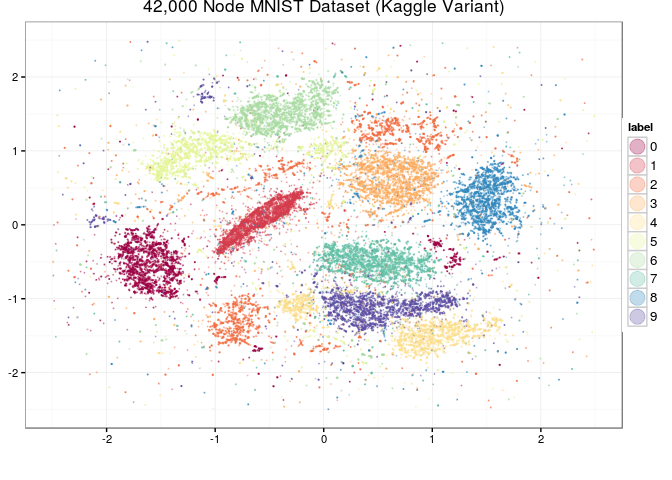
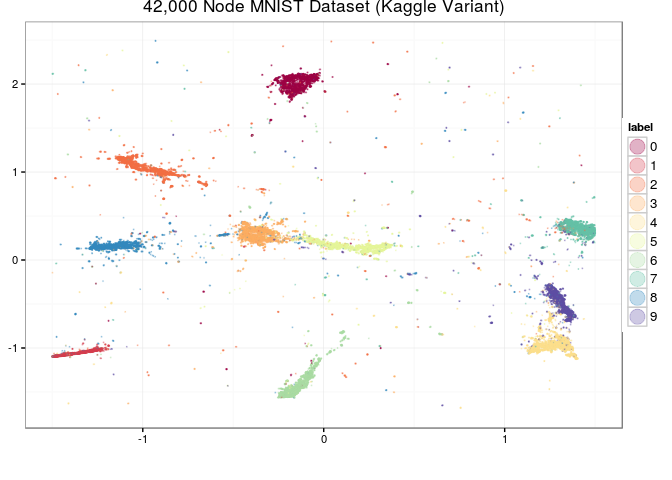
Failing.

Changed region(s): [[0.125, 0.125, 0.9062, 0.8438], [0.0625, 0.7188, 0.1875, 0.75], [0.0, 0.1562, 0.0312, 0.1875]]

diff --git a/src/largeVis.cpp b/src/largeVis.cpp
@@ -8,7 +8,6 @@
 #include <queue>
 #include <vector>
 #include <set>
-#include "helpers.hpp"
 using namespace Rcpp;
 using namespace std;
 
@@ -20,6 +19,10 @@ void checkVector(const arma::vec& x,
   if (x.has_nan() || x.has_inf())
     Rcout << "\n Failure at " << label;
 };
+
+inline double dist(arma::vec i, arma::vec j) {
+  return sum(square(i - j));
+}
 
 double objective(const arma::mat& inputs, double gamma, double alpha) {
   double objective = log(1 / (1 + (alpha * dist(inputs.col(0), inputs.col(1)))));
@@ -83,14 +86,11 @@ arma::mat sgd(arma::mat coords,
       positiveEdgeWeights[idx] = positiveEdgeWeights[idx - 1] + (ws[idx] / posScale);
   }
 
-  Rcpp::List progressParams = Rcpp::List::create();
-  double trailingLoss = 0;
-
   const int posSampleLength = min(1000000, nBatches);
   arma::vec positiveSamples = arma::randu<arma::vec>(posSampleLength);
 
   // Iterate through the edges in the positiveEdges vector
-#pragma omp parallel for shared(coords, positiveSamples, trailingLoss) schedule(static)
+  #pragma omp parallel for shared(coords, positiveSamples) schedule(static)
   for (int eIdx=0; eIdx < nBatches; eIdx++) {
     if (progress.increment()) {
       const double posTarget = *(positiveSamples.begin() + (eIdx % posSampleLength));
@@ -104,15 +104,10 @@ arma::mat sgd(arma::mat coords,
                                               positiveEdgeWeights.end(),
                                               posTarget));
       }
+
       const int i = is[e_ij];
       const int j = js[e_ij];
 
-      const double localRho = rho - ((rho - minRho) * eIdx / nBatches);
-
-      //if ((arma::randn<arma::vec>(1))[0] < 0) swap(i, j);
-
-      // const arma::vec y_i = coords.row(i);
-      // const arma::vec y_j = coords.row(j);
       arma::vec y_i = arma::vec(D);
       arma::vec y_j = arma::vec(D);
       for (int idx = 0; idx < D; idx++) {
@@ -120,29 +115,30 @@ arma::mat sgd(arma::mat coords,
         y_j[idx] = coords(idx,j);
       }
 
+      const double localRho = rho - ((rho - minRho) * eIdx / nBatches);
+
       // wij
       const double w = (useWeights) ? ws[e_ij] : 1;
 
-      const double dist_ij = sqrt(dist(y_i, y_j));
-      const arma::vec d_dist_ij = (y_i - y_j) / dist_ij;
+      const double      dist_ij   =   sqrt(dist(y_i, y_j));
+      const arma::vec   d_dist_ij =   (y_i - y_j) / dist_ij;
 
-      const double p_ij = (alpha == 0) ?
-                                        1 / (1 +     exp( pow(dist_ij,2))) :
+      const double      p_ij      =   (alpha == 0) ?
+                                        1 / (1 +     exp( pow(dist_ij,2))):
                                         1 / (1 + (alpha * pow(dist_ij,2)));
-
-      const arma::vec d_p_ij = (alpha == 0) ?
-                                d_dist_ij * -2 * dist_ij * exp(pow(dist_ij,2)) / pow(1 + exp(pow(dist_ij,2)), 2) :
-                                d_dist_ij * -2 * dist_ij * alpha               / pow(1 +    (pow(dist_ij,2) * alpha),2);
+      const arma::vec   d_p_ij    =   (alpha == 0) ?
+                                d_dist_ij * -2 * dist_ij * exp(pow(dist_ij,2)) / pow(1 +      exp(pow(dist_ij,2)), 2):
+                                d_dist_ij * -2 * dist_ij * alpha               / pow(1 + (alpha * pow(dist_ij,2)), 2);
 
       //double o = log(p_ij);
-      const arma::vec d_j = (1 / p_ij) * d_p_ij;
+      const arma::vec   d_j       =   (1 / p_ij) * d_p_ij;
+      arma::vec         d_i       =   d_j;
 
       arma::vec samples = arma::randu<arma::vec>(M * 2);
       arma::vec::iterator targetIt = samples.begin();
       int sampleIdx = 1;
       // The indices of the nodes with edges to i
       arma::vec searchVector = i_idx.subvec(ps[i], ps[i + 1] - 1);
-      arma::vec d_i = d_j;
       int m = 0;
       while (m < M) {
         if (sampleIdx % (M * 2) == 0) samples.randu();
@@ -150,35 +146,35 @@ arma::mat sgd(arma::mat coords,
         const double target = targetIt[sampleIdx++ % (M * 2)];
         int k;
         if (useWeights) k = target * (N - 1);
-        else k = std::distance(negativeSampleWeights.begin(),
-                               std::upper_bound(negativeSampleWeights.begin(),
-                                                negativeSampleWeights.end(),
-                                                target)
-                                 );
-
+        else            k = std::distance(
+                                          negativeSampleWeights.begin(),
+                                          std::upper_bound( negativeSampleWeights.begin(),
+                                                            negativeSampleWeights.end(),
+                                                            target
+                                                          )
+                                        );
         if (k == i ||
             k == j ||
             sum(searchVector == k) > 0) continue;
+
         arma::vec y_k = arma::vec(D);
         for (int idx = 0; idx < D; idx++) y_k[idx] = coords(idx,k);
 
         const double dist_ik =  sqrt(dist(y_i, y_k));
-        if (dist_ik == 0) continue; // Duplicates
-
+        if (dist_ik == 0) continue; // check for duplicates
         const arma::vec d_dist_ik = (y_i - y_k) / dist_ik;
 
         const double p_ik = (alpha == 0) ?
-                                1 - (1 / (1 +     exp( pow(dist_ik,2)))) :
+                                1 - (1 / (1 +     exp( pow(dist_ik,2)))):
                                 1 - (1 / (1 + (alpha * pow(dist_ik,2))));
-
         const arma::vec d_p_ik = (alpha == 0) ?
-                                  d_dist_ik * 2 * dist_ik * exp(pow(dist_ik,2)) / pow(1 +      exp(pow(dist_ik,2)),2) :
+                                  d_dist_ik * 2 * dist_ik * exp(pow(dist_ik,2)) / pow(1 +      exp(pow(dist_ik,2)),2):
                                   d_dist_ik * 2 * dist_ik * alpha               / pow(1 + (alpha * pow(dist_ik,2)),2);
+
         //o += (gamma * log(p_ik));
-
         const arma::vec d_k = (gamma / p_ik) * d_p_ik;
-
         d_i += d_k;
+
         for (int idx = 0; idx < D; idx++) coords(idx,k) -= d_k[idx] * localRho * w;
 
         m++;
@@ -189,7 +185,7 @@ arma::mat sgd(arma::mat coords,
         coords(idx,i) +=  d_i[idx] * w * localRho;
       }
 
-      if (eIdx >0 && eIdx % posSampleLength == 0) positiveSamples.randu();
+      if (eIdx > 0 && eIdx % posSampleLength == 0) positiveSamples.randu();
     }
   }
   return coords;

diff --git a/src/helpers.hpp b/src/helpers.hpp
@@ -1,5 +1,5 @@
-#ifndef ADD_H
-#define ADD_H
+#ifndef LARGEVISHELPERS
+#define LARGEVISHELPERS
 using namespace Rcpp;
 
 double dist(const arma::vec& i, const arma::vec& j);

diff --git a/README.md b/README.md
@@ -9,7 +9,7 @@ The inner loops for nearest-neighbor search and gradient descent are implemented
 
 #### Project Status & Caveats
 
--   It works!
+-   It works! I have now tested with datasets of up to 1 Million rows.
 -   The OpenMP issues in the original upload have been resolved, and OpenMP re-enabled.
 -   Memory efficiency has been *vastly* improved in 0.1.3. Peak memory consumption on MNIST is now closer to 2GB (down from 8GB). Several phases of the algorithm are also now much faster.
 -   Not yet working:
@@ -31,7 +31,7 @@ dat <- (dat / 255) - 0.5
 dat <- t(dat)
 coords <- vis(dat, check=FALSE,
                    n_tree = 50, tree_th = 700,
-                   K = 50, alpha = 1, max.iter = 4)
+                   K = 100,  max.iter = 1, gamma = 3.5, alpha = 2)
 ```
 
 ![](README_files/figure-markdown_github/drawmnist-1.png)
@@ -48,9 +48,9 @@ dim(mnistimages) <- c(42000, 28, 28)
 coords <- as.matrix(coords[,1:2])
 coords <- scale(coords)
 manifoldMap(coords,
-    n = 3000,
-    scale = 0.005,
-    transparency = F,
+    n = 5000,
+    scale = 0.007,
+    transparency = TRUE,
     images = mnistimages,
     xlab="", ylab="",
     xlim = c(-2.5, 2.5), 
